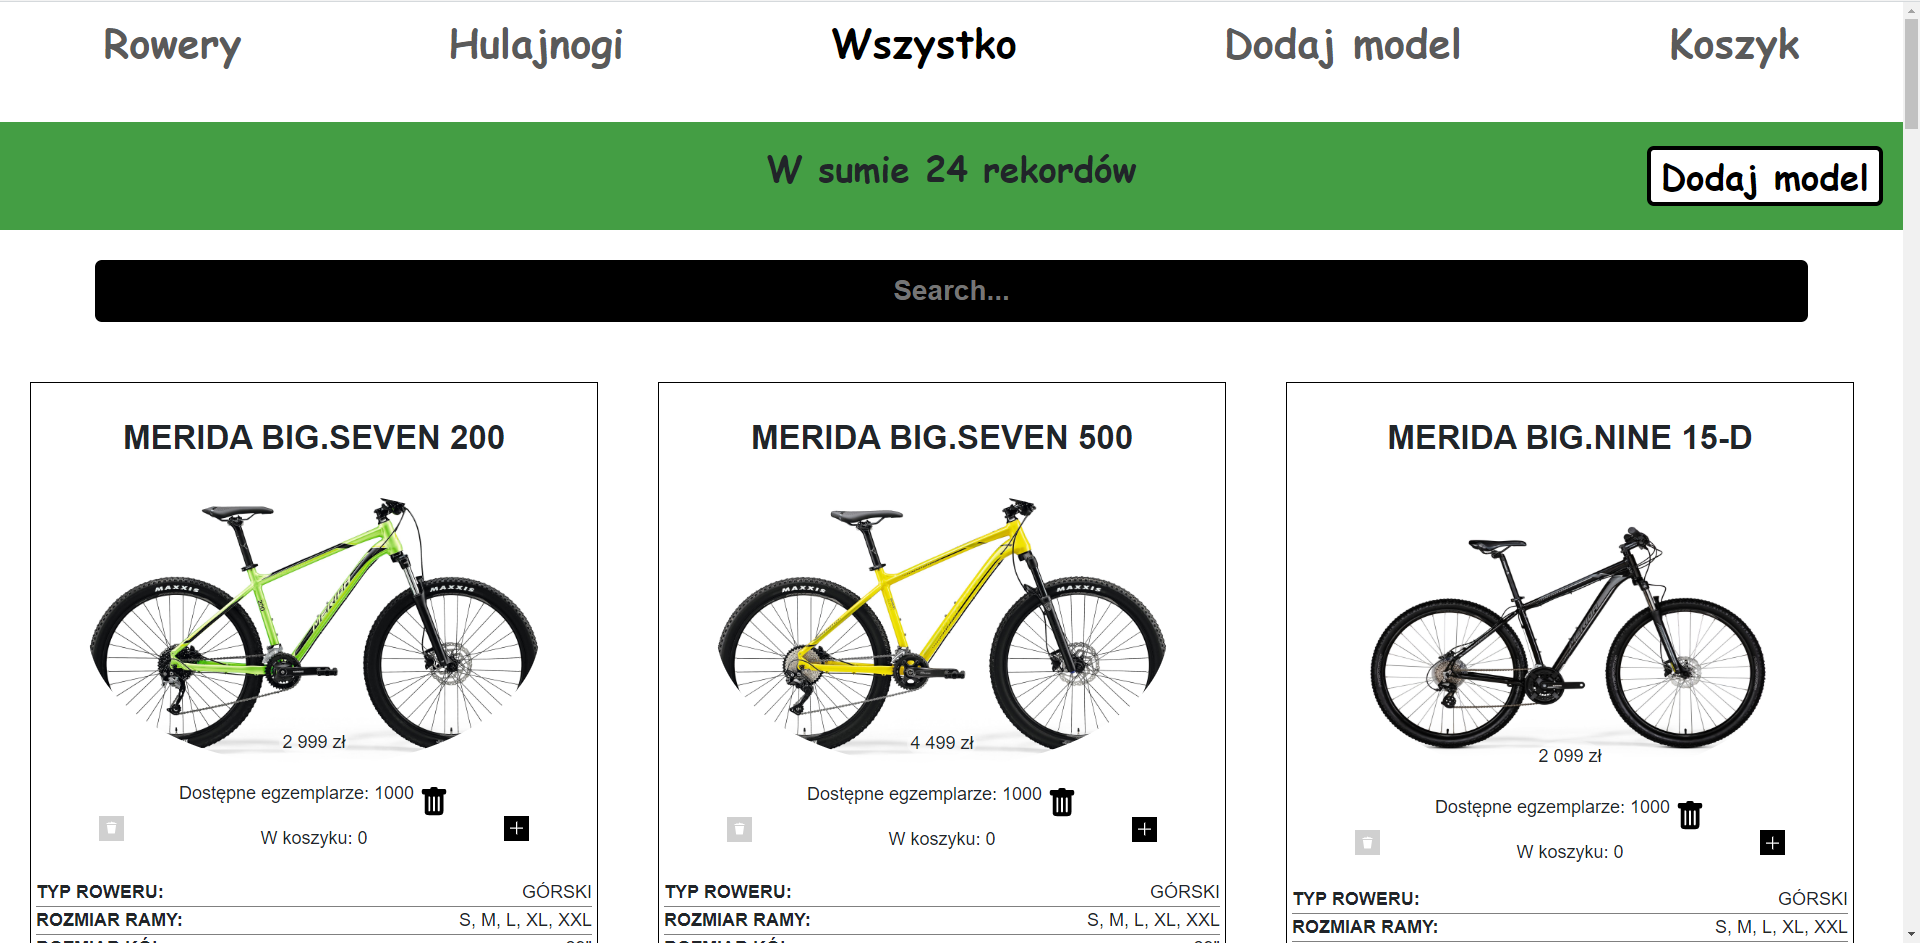
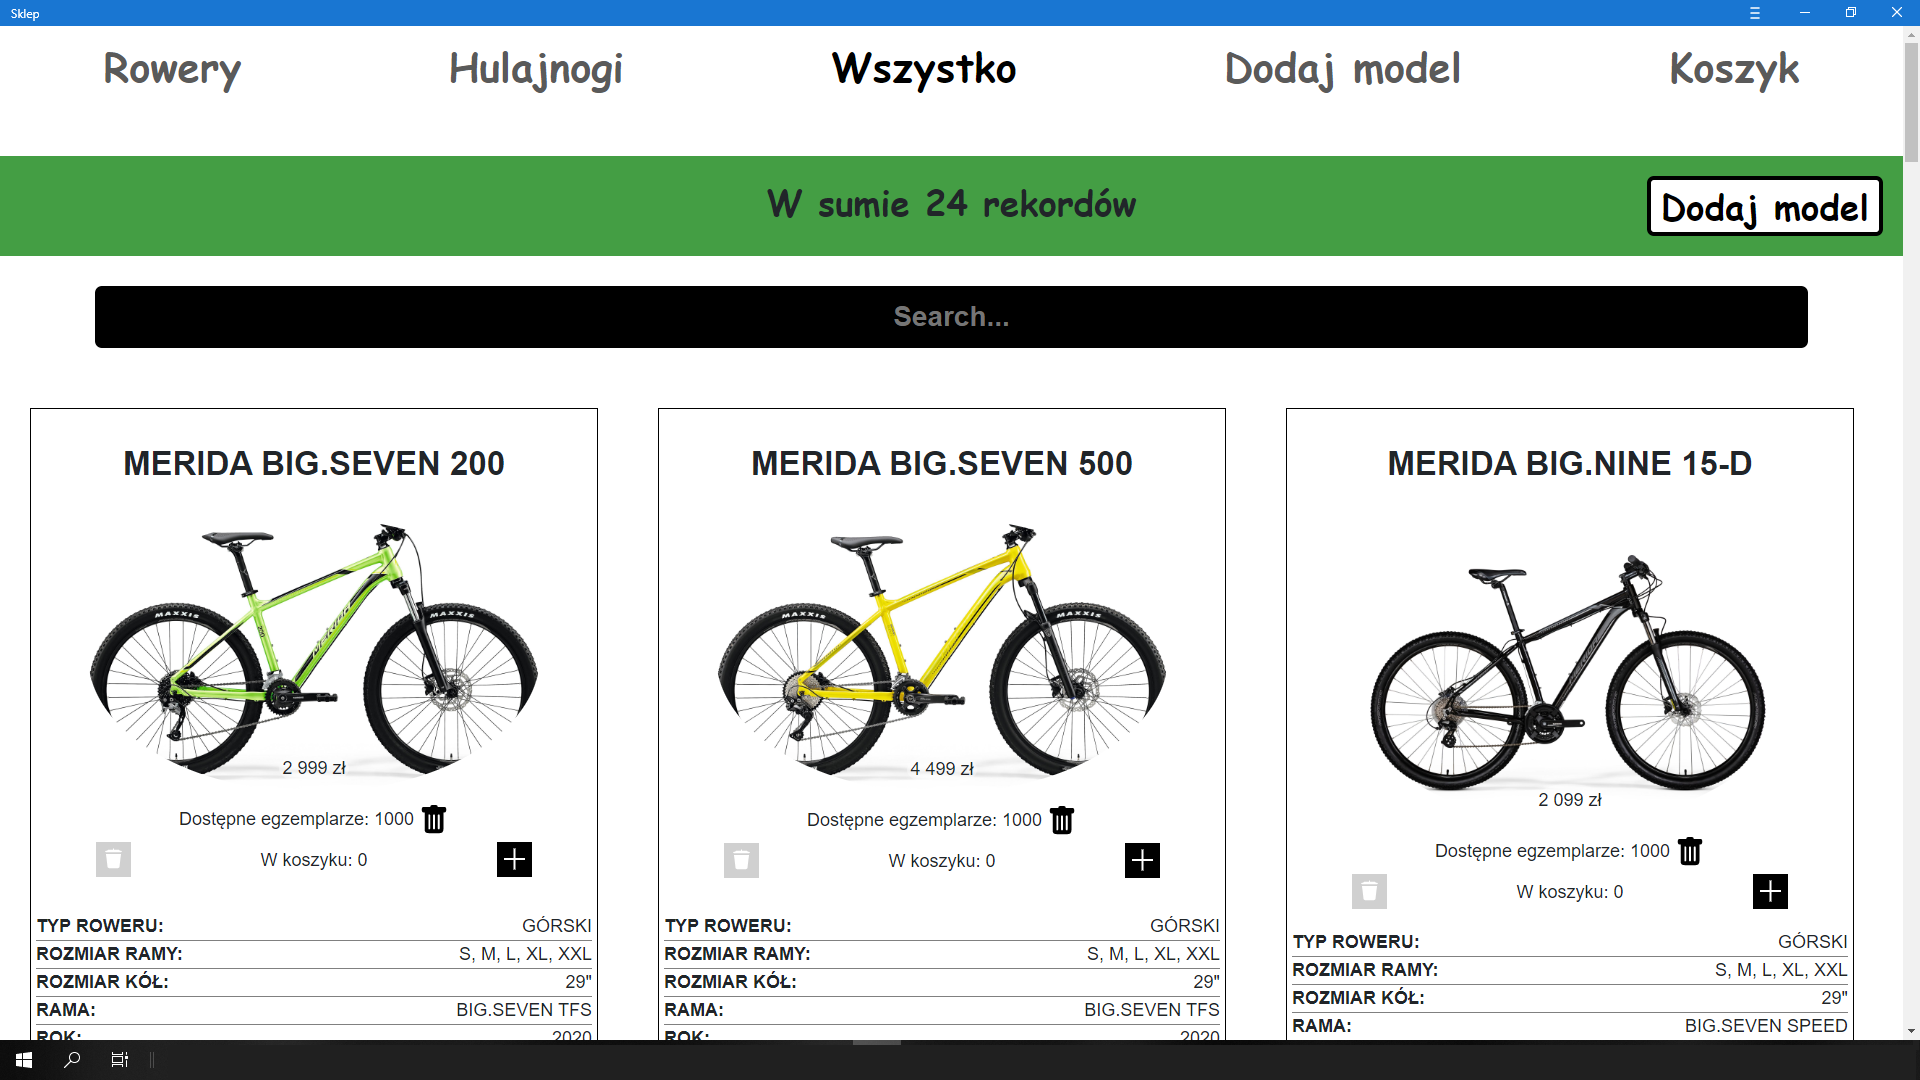
PWA!

diff --git a/src/app/product/product.component.scss b/src/app/product/product.component.scss
@@ -16,11 +16,7 @@
     &-photo {
         border-radius: 50%;
         width: 80%;
-        max-height: calc(45vw / 3);
-
-        @media(max-width: 1500px) {
-            max-height: calc(45vw/2);
-        }
+        max-height: calc(45vw / 2);
 
         @media(max-width: 1000px) {
             max-height: calc(45vw);
@@ -56,10 +52,10 @@
 
     &-reduce, &-add {
         cursor: pointer;
-        color: white;
+        color: white !important;
         background-color: black;
-        width: 25px;
-        height: 25px;
+        width: 35px;
+        height: 35px;
         display: flex;
         align-items: center;
         justify-content: center;
@@ -69,7 +65,7 @@
     }
 
     &-incart {
-        margin-top: 9px;
+        margin-top: 5px;
     }
 }
 
@@ -109,8 +105,6 @@
 
 .remove {
     display: inline-block;
-    position: relative;
-    bottom: -8px;
     width: 30px;
     height: 30px;
     color: black;

diff --git a/src/app/app.component.scss b/src/app/app.component.scss
@@ -4,21 +4,27 @@ nav {
     justify-content: space-around;
     text-align: center;
     flex-wrap: wrap;
-
-    @media(max-width: 700px) {
-        flex-direction: column;
-    }
+    margin-bottom: 50px;
 
     a {
         font-family: 'Alfa Slab One', cursive;
         font-size: 40px;
         font-weight: 600;
-        margin: 10px;   
-        margin-bottom: 50px;
+        margin: 10px;
         color: rgb(90, 90, 90);
 
-        @media(max-width: 320px) {
-            font-size: 45px;
+        @media(max-width: 1000px) {
+            margin: 0px 35px;
+        }
+
+        @media(max-width: 750px) {
+            margin: 0px 25px;
+            font-size: 35px;
+        }
+
+        @media(max-width: 600px) {
+            margin: 0px 10px;
+            font-size: 35px;
         }
 
         &:hover {

diff --git a/src/app/app.module.ts b/src/app/app.module.ts
@@ -11,6 +11,8 @@ import { ShoppingCartComponent } from './shopping-cart/shopping-cart.component';
 import { SearchPipe } from './search.pipe';
 import { ProductsService } from './services/products-service';
 import { PhotoComponent } from './photo/photo.component';
+import { ServiceWorkerModule } from '@angular/service-worker';
+import { environment } from '../environments/environment';
 
 @NgModule({
   declarations: [
@@ -25,7 +27,8 @@ import { PhotoComponent } from './photo/photo.component';
   imports: [
     BrowserModule,
     FormsModule,
-    AppRoutingModule
+    AppRoutingModule,
+    ServiceWorkerModule.register('ngsw-worker.js', { enabled: environment.production })
   ],
   providers: [ProductsService],
   bootstrap: [AppComponent]

diff --git a/src/index.html b/src/index.html
@@ -6,8 +6,12 @@
   <base href="/">
   <meta name="viewport" content="width=device-width, initial-scale=1">
   <link rel="icon" type="image/x-icon" href="favicon.ico">
+  <link href="https://fonts.googleapis.com/css2?family=Alfa+Slab+One&family=Open+Sans&display=swap" rel="stylesheet">
+  <link rel="manifest" href="manifest.webmanifest">
+  <meta name="theme-color" content="#1976d2">
 </head>
 <body>
   <app-root></app-root>
+  <noscript>Please enable JavaScript to continue using this application.</noscript>
 </body>
 </html>

diff --git a/src/app/products/products.component.scss b/src/app/products/products.component.scss
@@ -15,6 +15,7 @@ $font-title: 'Alfa Slab One', cursive;
         }
 
         &-text {
+            margin: 0;
             grid-column: 2;
 
             @media(max-width: 1000px) {
